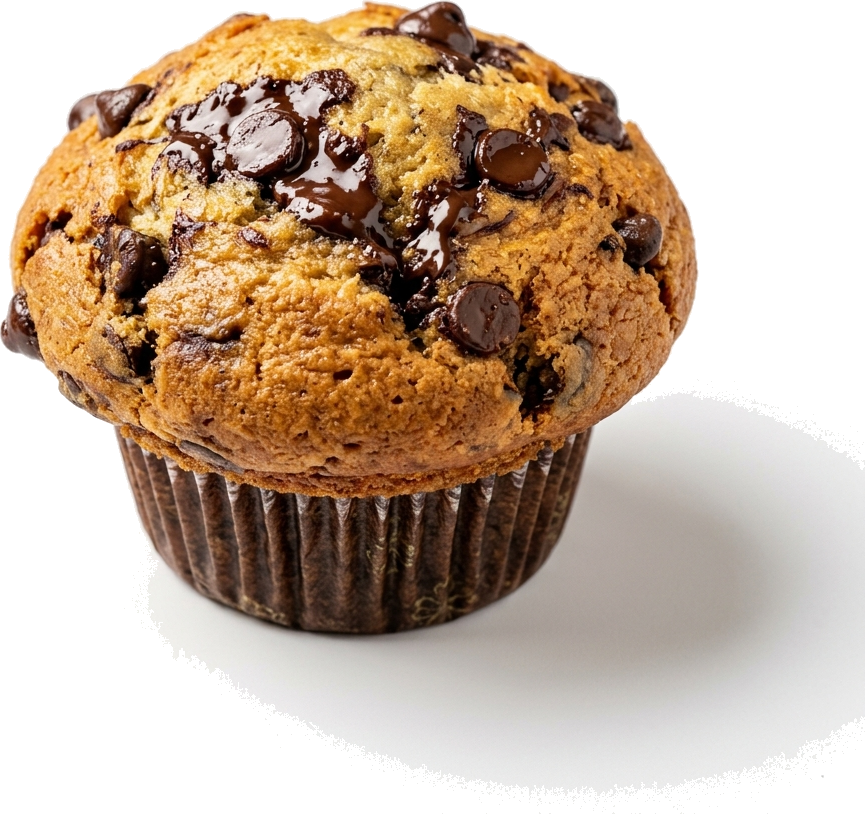
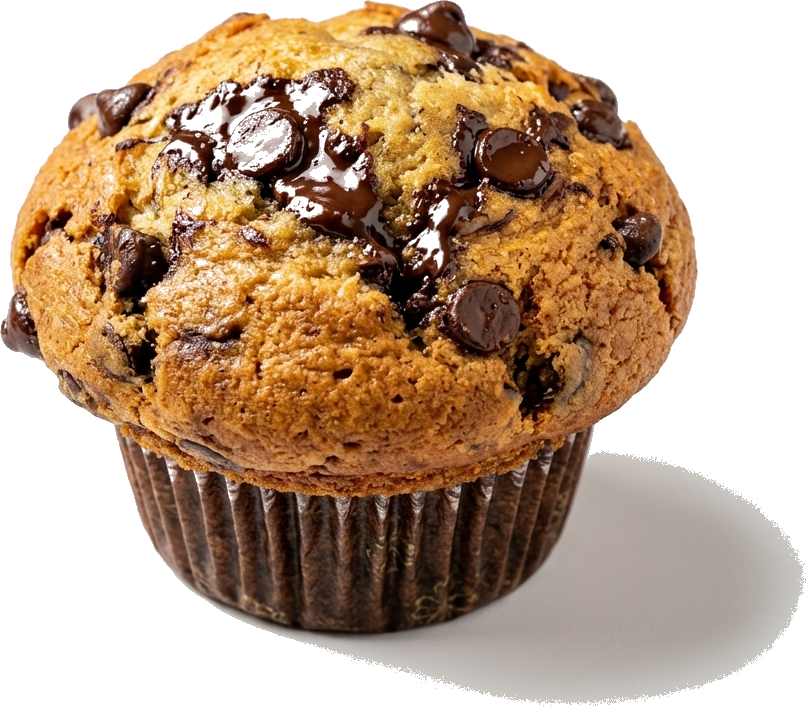
Style: Remove white shadow shape from hero_muffin.png and change Z-axis flip to Y-axis 3D spin during scroll

diff --git a/src/components/ScrollCookieController.jsx b/src/components/ScrollCookieController.jsx
@@ -118,9 +118,9 @@ export default function ScrollCookieController({ triggerRef }) {
           ease: 'none',
         }, 0);
 
-        // Spin the muffin (looks like natural rolling)
+        // Spin the muffin horizontally around the Y-axis
         tl.to(cookie, {
-          rotation: 720,
+          rotationY: 720,
           ease: 'none',
         }, 0);
       });